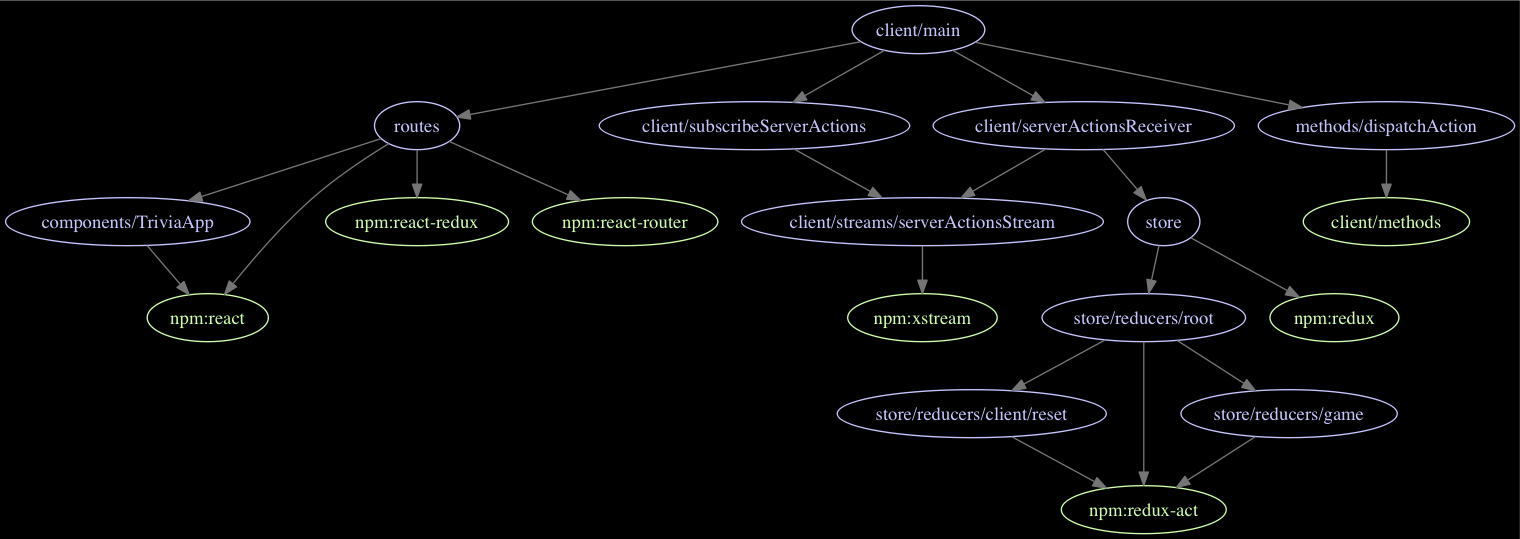
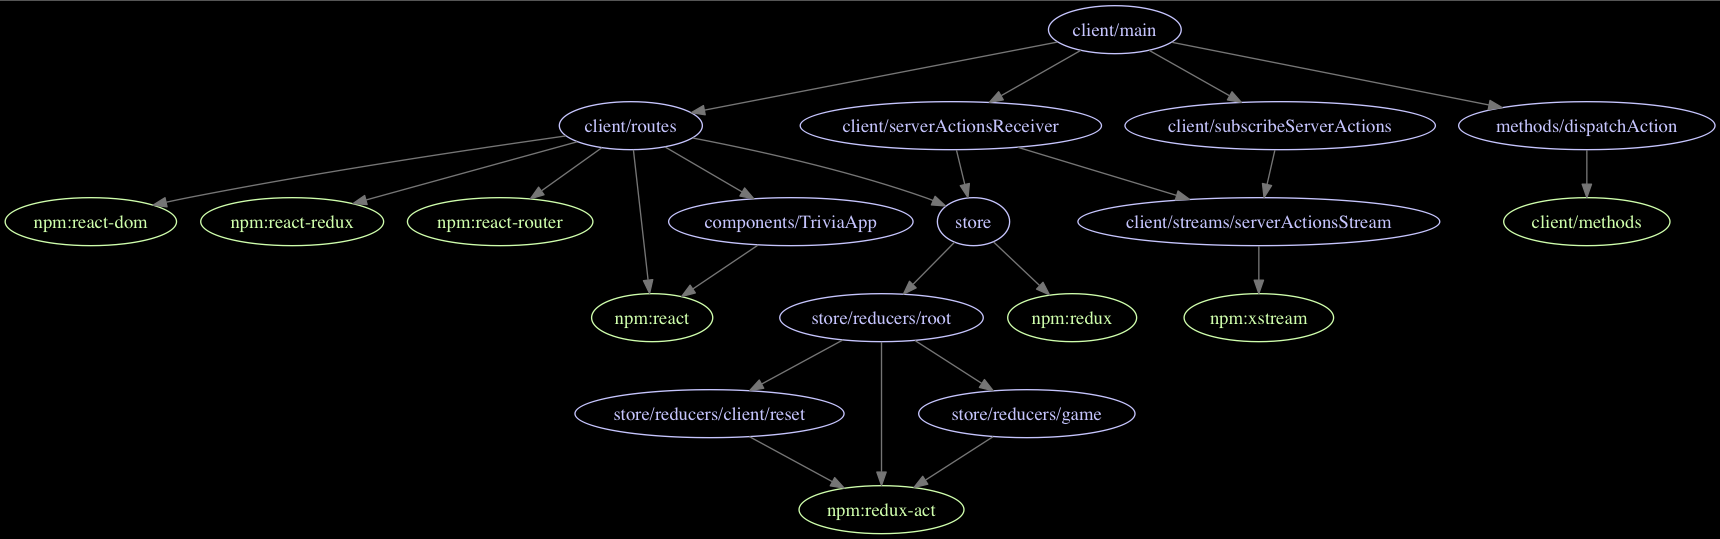
Client side routing for now

diff --git a/imports/client/routes.js b/imports/client/routes.js
@@ -1,0 +1,23 @@
+import { Meteor } from 'meteor/meteor'
+import React from 'react'
+import ReactDOM from 'react-dom'
+import { Router, Route, hashHistory } from 'react-router'
+import { connect, Provider } from 'react-redux'
+
+import { TriviaApp } from '../components/TriviaApp'
+import store from '../store/store'
+
+const ConnectedTriviaApp = connect(state => state.toJS())(TriviaApp)
+
+Meteor.startup(() => {
+  ReactDOM.render(
+    <Provider store={store}>
+      <Router history={hashHistory}>
+        <Route>
+          <Route path="/" component={ConnectedTriviaApp} />
+        </Route>
+      </Router>
+    </Provider>,
+    document.getElementById('react-app')
+  )
+})

diff --git a/imports/client/main.js b/imports/client/main.js
@@ -1,4 +1,5 @@
-import routes from '/imports/routes'
+// import routes from '/imports/routes'
+import routes from './routes'
 
 import { dispatchAction } from '../methods/dispatchAction'
 

diff --git a/imports/components/TriviaApp.js b/imports/components/TriviaApp.js
@@ -1,5 +1,8 @@
 import React from 'react'
 
-export const TriviaApp = () => (
+export const TriviaApp = ({ game }) => (
+  <div>
   <h1>Trivia !</h1>
+  { game.status }
+  </div>
 )

diff --git a/imports/server/main.js b/imports/server/main.js
@@ -1,3 +1,2 @@
-import routes from '/imports/routes'
 import { dispatchAction } from '../methods/dispatchAction'
 import serverActions from './publications/serverActions'

diff --git a/client/main.html b/client/main.html
@@ -1,0 +1,3 @@
+<body>
+<div id="react-app"></div>
+</body>
